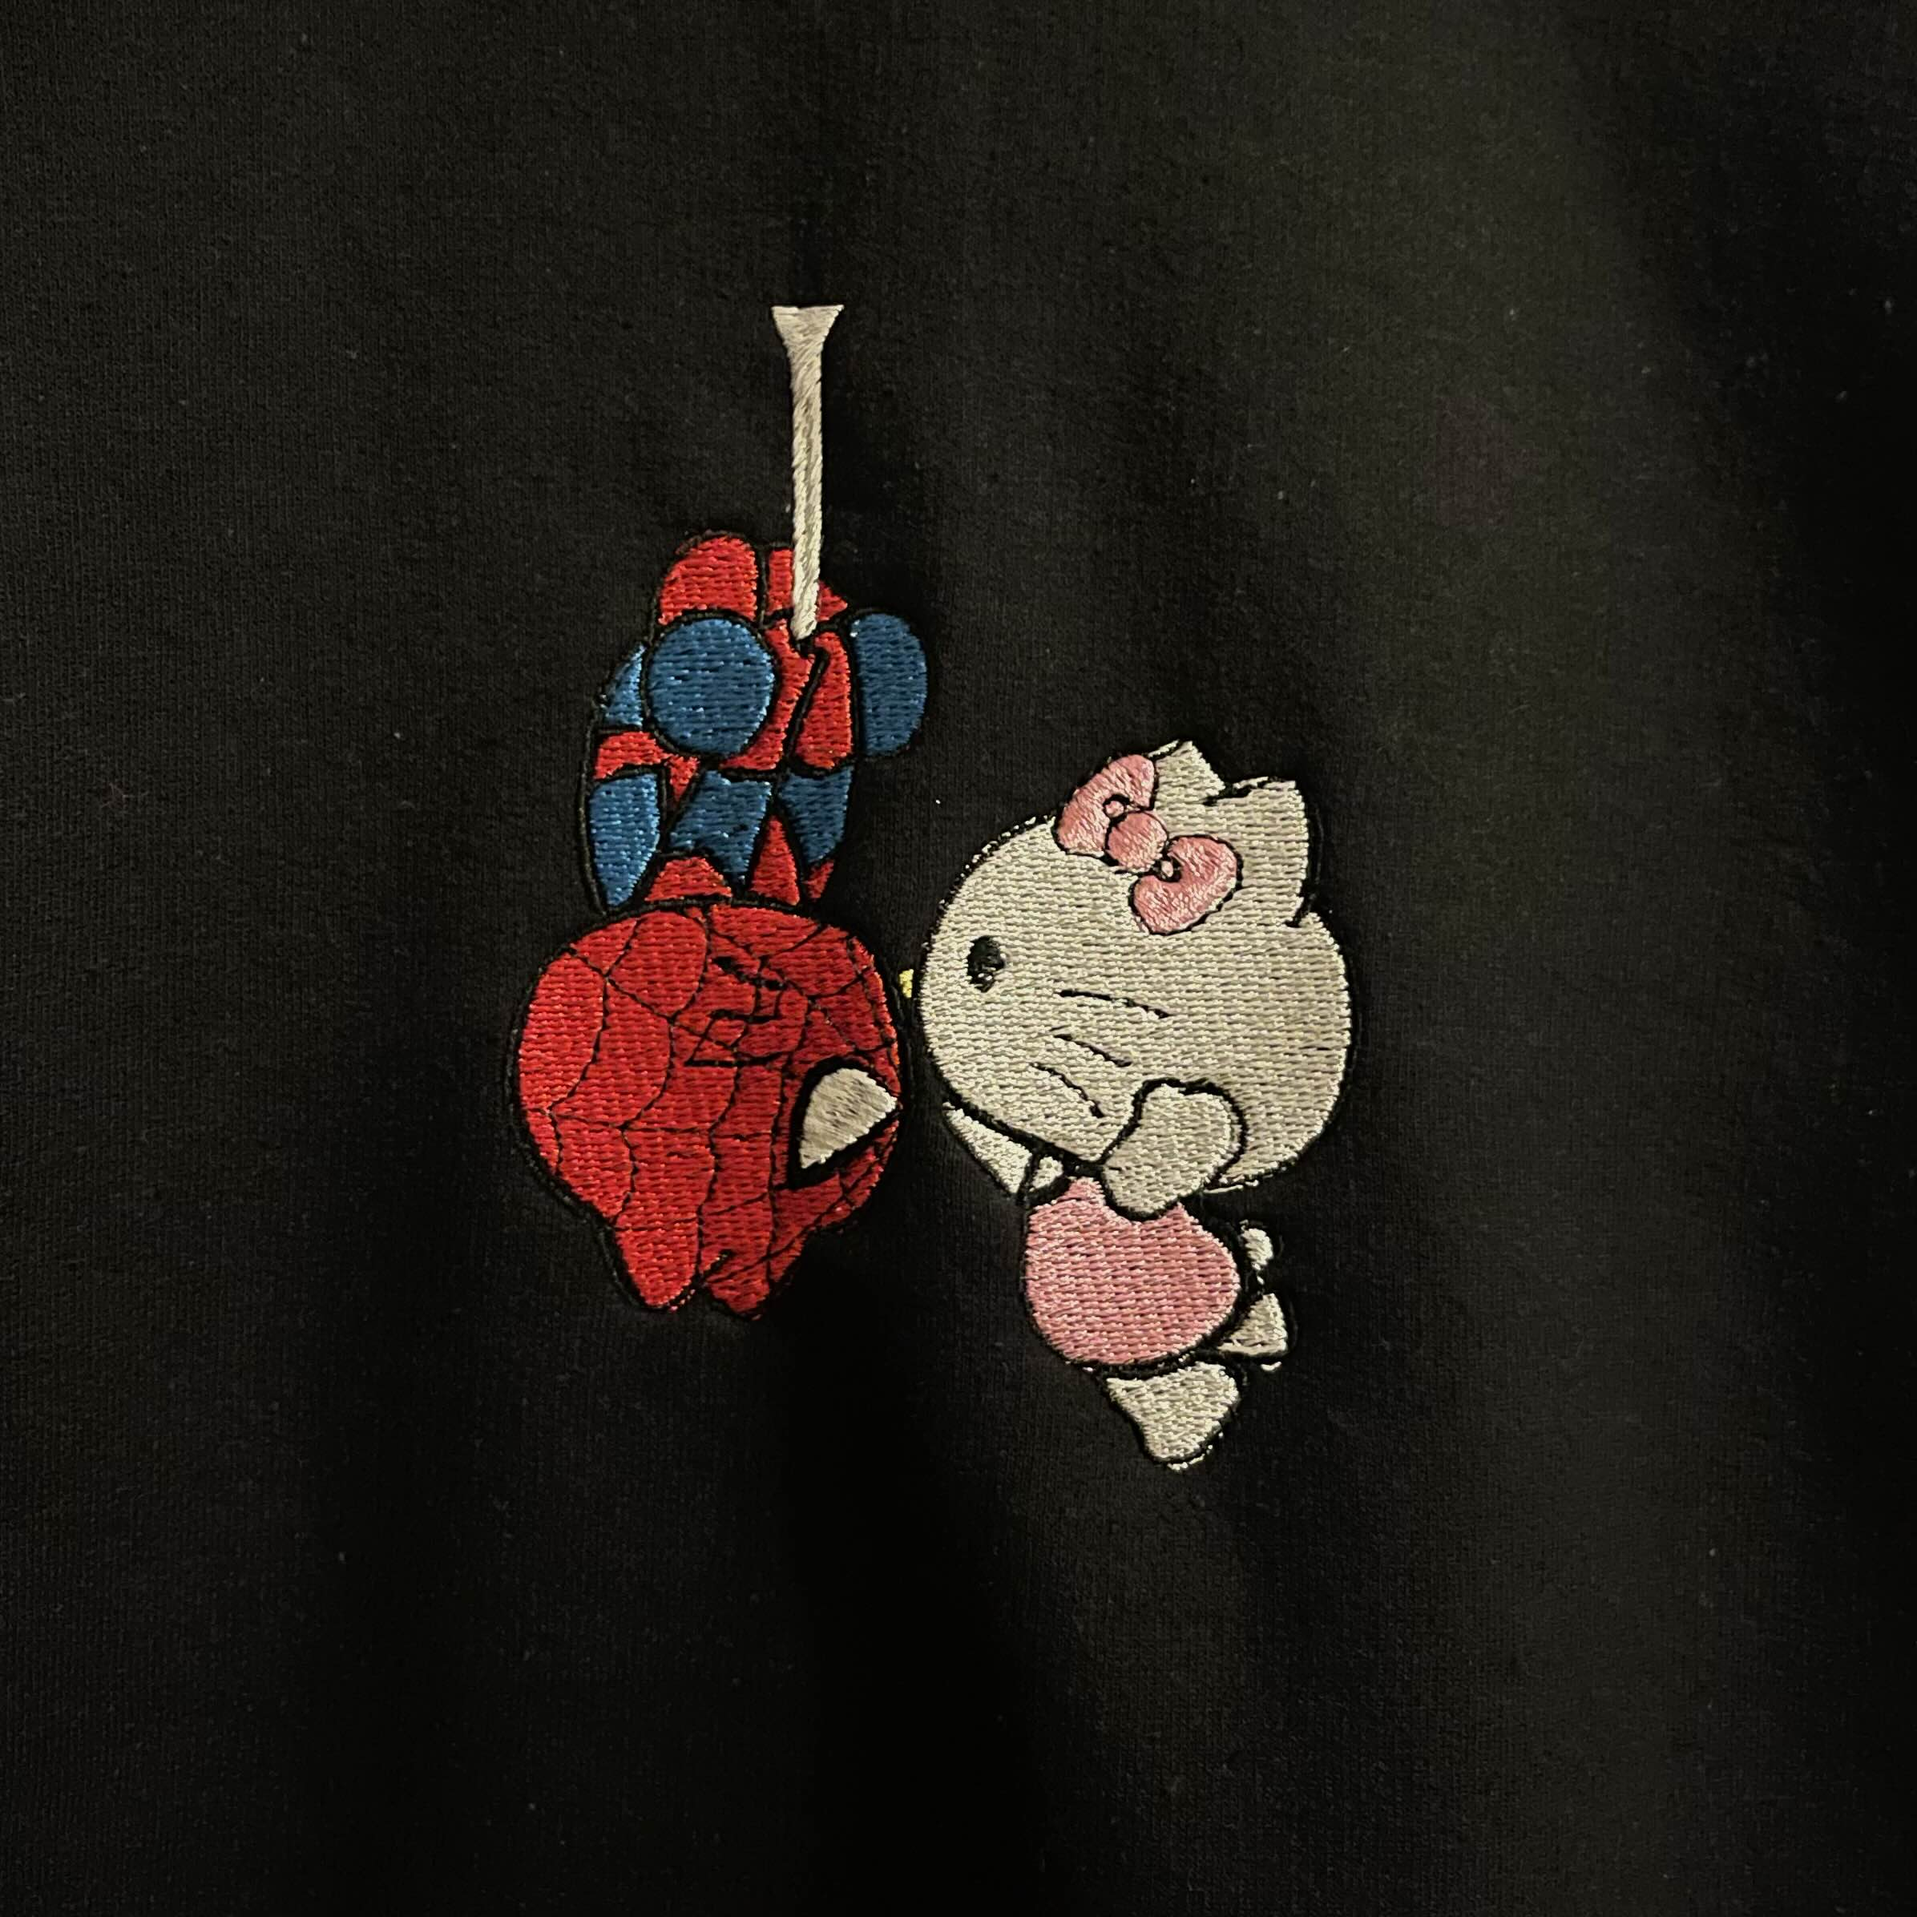
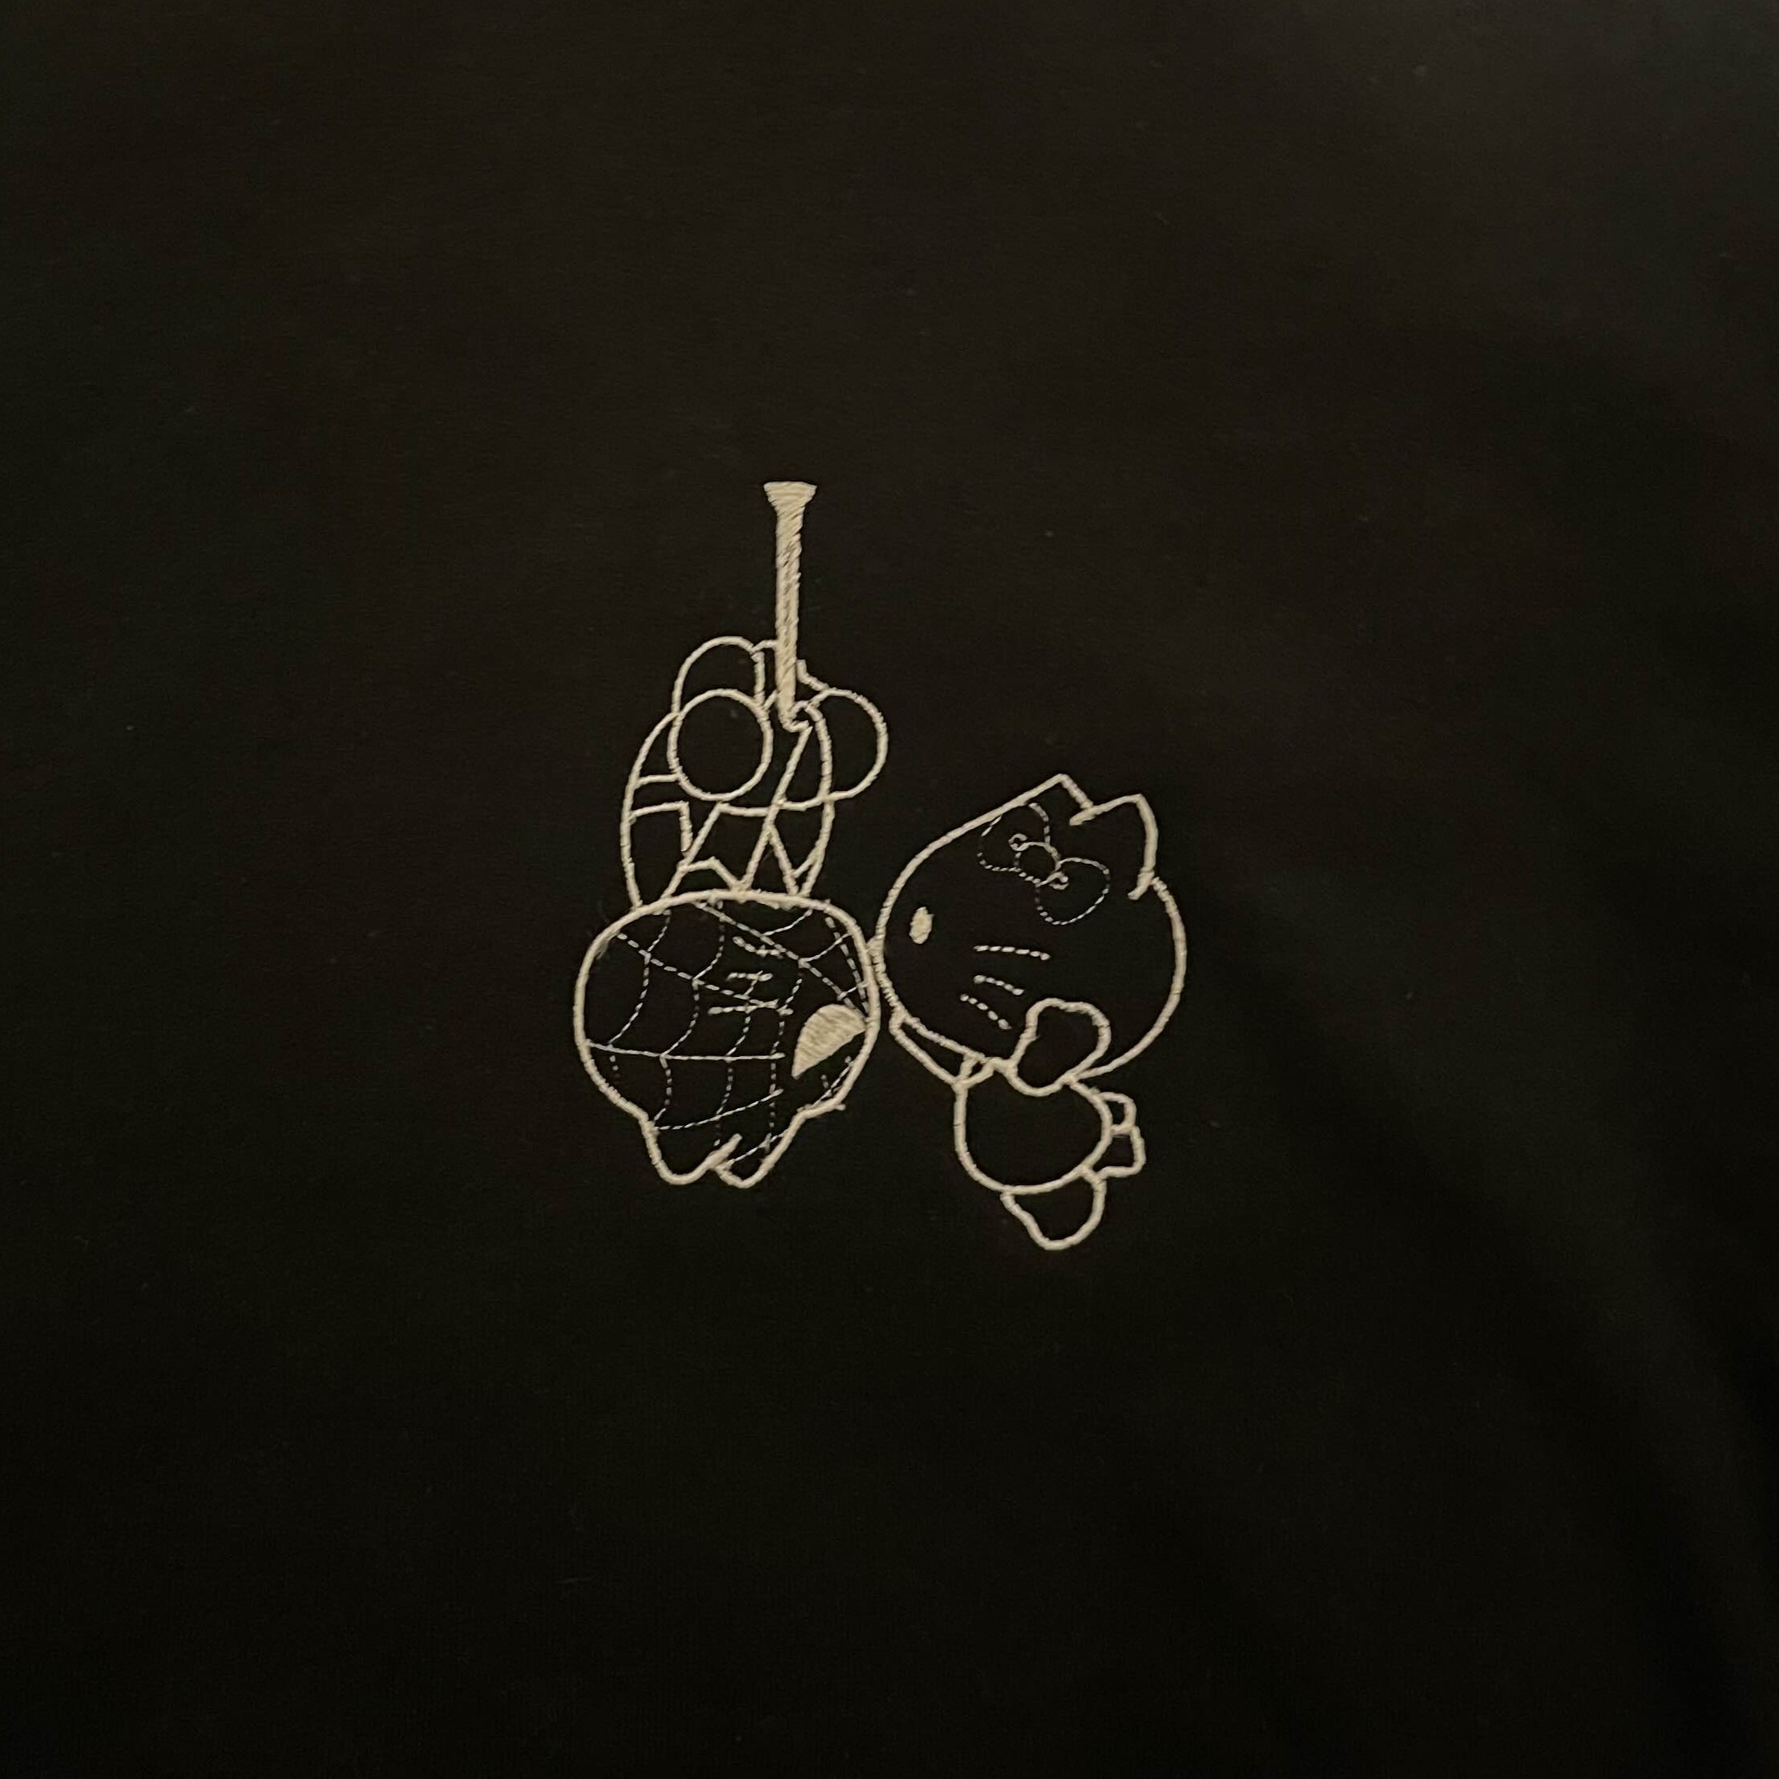
product updates

diff --git a/products.html b/products.html
@@ -115,25 +115,25 @@
                         <div>
                             <div class="mb-4">
                                 <label class="inline-flex items-center">
-                                    <input type="radio" name="productType1" value="tshirt" class="form-radio" onclick="showPrice(45, 'priceDisplay1')">
+                                    <input type="radio" name="productType1" value="tshirt" class="form-radio" onclick="showPrice(30, 'priceDisplay1')">
                                     <span class="options_text text-xl md:text-lg lg:text-2xl ml-2">T-Shirt</span>
                                 </label>
                             </div>
                             <div class="mb-4">
                                 <label class="inline-flex items-center">
-                                    <input type="radio" name="productType1" value="longsleeve" class="form-radio" onclick="showPrice(50, 'priceDisplay1')">
+                                    <input type="radio" name="productType1" value="longsleeve" class="form-radio" onclick="showPrice(35, 'priceDisplay1')">
                                     <span class="options_text text-xl md:text-lg lg:text-2xl ml-2">Long Sleeve</span>
                                 </label>
                             </div>
                             <div class="mb-4">
                                 <label class="inline-flex items-center">
-                                    <input type="radio" name="productType1" value="crewneck" class="form-radio" onclick="showPrice(55, 'priceDisplay1')">
+                                    <input type="radio" name="productType1" value="crewneck" class="form-radio" onclick="showPrice(40, 'priceDisplay1')">
                                     <span class="options_text text-xl md:text-lg lg:text-2xl ml-2">Sweatshirt</span>
                                 </label>
                             </div>
                             <div class="mb-4">
                                 <label class="inline-flex items-center">
-                                    <input type="radio" name="productType1" value="hoodie" class="form-radio" onclick="showPrice(60, 'priceDisplay1')">
+                                    <input type="radio" name="productType1" value="hoodie" class="form-radio" onclick="showPrice(45, 'priceDisplay1')">
                                     <span class="options_text text-xl md:text-lg lg:text-2xl ml-2">Hoodie</span>
                                 </label>
                             </div>
@@ -317,6 +317,78 @@
                         </div>
                         <!-- Price Display -->
                         <div id="priceDisplay16" class="text-2xl font-semibold"></div>
+                    </div>
+                </div>
+                <!------------------------------------ 21 ------------------------------------>
+                <div class="bg-white p-4 rounded-lg shadow-lg">
+                    <img src="imgs/spiderweb.jpg" alt="spiderweb" class="w-full h-auto object-cover mb-4 rounded cursor-pointer" onclick="openModal('spiderweb')">
+                    <h3 class="text-2xl text-center font-semibold mb-2">Spider Web</h3>
+                    <div id="productForm21" class="flex items-start space-x-28 py-5">
+                        <div>
+                            <div class="mb-4">
+                                <label class="inline-flex items-center">
+                                    <input type="radio" name="productType2" value="tshirt" class="form-radio" onclick="showPrice(25, 'priceDisplay21')">
+                                    <span class="options_text text-xl md:text-lg lg:text-2xl ml-2">T-Shirt</span>
+                                </label>
+                            </div>
+                            <div class="mb-4">
+                                <label class="inline-flex items-center">
+                                    <input type="radio" name="productType2" value="longsleeve" class="form-radio" onclick="showPrice(30, 'priceDisplay21')">
+                                    <span class="options_text text-xl md:text-lg lg:text-2xl ml-2">Long Sleeve</span>
+                                </label>
+                            </div>
+                            <div class="mb-4">
+                                <label class="inline-flex items-center">
+                                    <input type="radio" name="productType2" value="crewneck" class="form-radio" onclick="showPrice(35, 'priceDisplay21')">
+                                    <span class="options_text text-xl md:text-lg lg:text-2xl ml-2">Sweatshirt</span>
+                                </label>
+                            </div>
+                            <div class="mb-4">
+                                <label class="inline-flex items-center">
+                                    <input type="radio" name="productType2" value="hoodie" class="form-radio" onclick="showPrice(40, 'priceDisplay21')">
+                                    <span class="options_text text-xl md:text-lg lg:text-2xl ml-2">Hoodie</span>
+                                </label>
+                            </div>
+                        </div>
+                        <!-- Price Display -->
+                        <div id="priceDisplay21" class="text-2xl font-semibold"></div>
+                    </div>
+                </div>
+
+                <!------------------------------------ 22 ------------------------------------>
+                                        
+                <div class="bg-white p-4 rounded-lg shadow-lg">
+                    <img src="imgs/mera.jpg" alt="mera mera" class="w-full h-auto object-cover mb-4 rounded cursor-pointer" onclick="openModal('mera')">
+                    <h3 class="text-2xl text-center font-semibold mb-2">Mera Mera no Mi</h3>
+                    <div id="productForm22" class="flex items-start space-x-28 py-5">
+                        <div>
+                            <div class="mb-4">
+                                <label class="inline-flex items-center">
+                                    <input type="radio" name="productType2" value="tshirt" class="form-radio" onclick="showPrice(25, 'priceDisplay22')">
+                                    <span class="options_text text-xl md:text-lg lg:text-2xl ml-2">T-Shirt</span>
+                                </label>
+                            </div>
+                            <div class="mb-4">
+                                <label class="inline-flex items-center">
+                                    <input type="radio" name="productType2" value="longsleeve" class="form-radio" onclick="showPrice(30, 'priceDisplay22')">
+                                    <span class="options_text text-xl md:text-lg lg:text-2xl ml-2">Long Sleeve</span>
+                                </label>
+                            </div>
+                            <div class="mb-4">
+                                <label class="inline-flex items-center">
+                                    <input type="radio" name="productType2" value="crewneck" class="form-radio" onclick="showPrice(35, 'priceDisplay22')">
+                                    <span class="options_text text-xl md:text-lg lg:text-2xl ml-2">Sweatshirt</span>
+                                </label>
+                            </div>
+                            <div class="mb-4">
+                                <label class="inline-flex items-center">
+                                    <input type="radio" name="productType2" value="hoodie" class="form-radio" onclick="showPrice(40, 'priceDisplay22')">
+                                    <span class="options_text text-xl md:text-lg lg:text-2xl ml-2">Hoodie</span>
+                                </label>
+                            </div>
+                        </div>
+                        <!-- Price Display -->
+                        <div id="priceDisplay22" class="text-2xl font-semibold"></div>
                     </div>
                 </div>
                 <!------------------------------------ 18 ------------------------------------>
@@ -841,6 +913,7 @@
             'countries': ['imgs/countries.jpg','imgs/gaza.jpg', 'imgs/afgh.jpg'],
             'multipoke': ['imgs/multipoke.jpg','imgs/lilpoke.jpg','imgs/lilpoke2.jpg','imgs/morepoke.jpg', 'imgs/mudkip.jpg','imgs/gengar.jpg'],
             'snoopy': ['imgs/snoopy.jpg', 'imgs/snoopy2.jpg'],
+            'spiderweb': ['imgs/spiderweb.jpg', 'imgs/spiderweb2.jpg'],
             'cr7': ['imgs/cr7.jpg', 'imgs/cr72.jpg'],
         };
 
